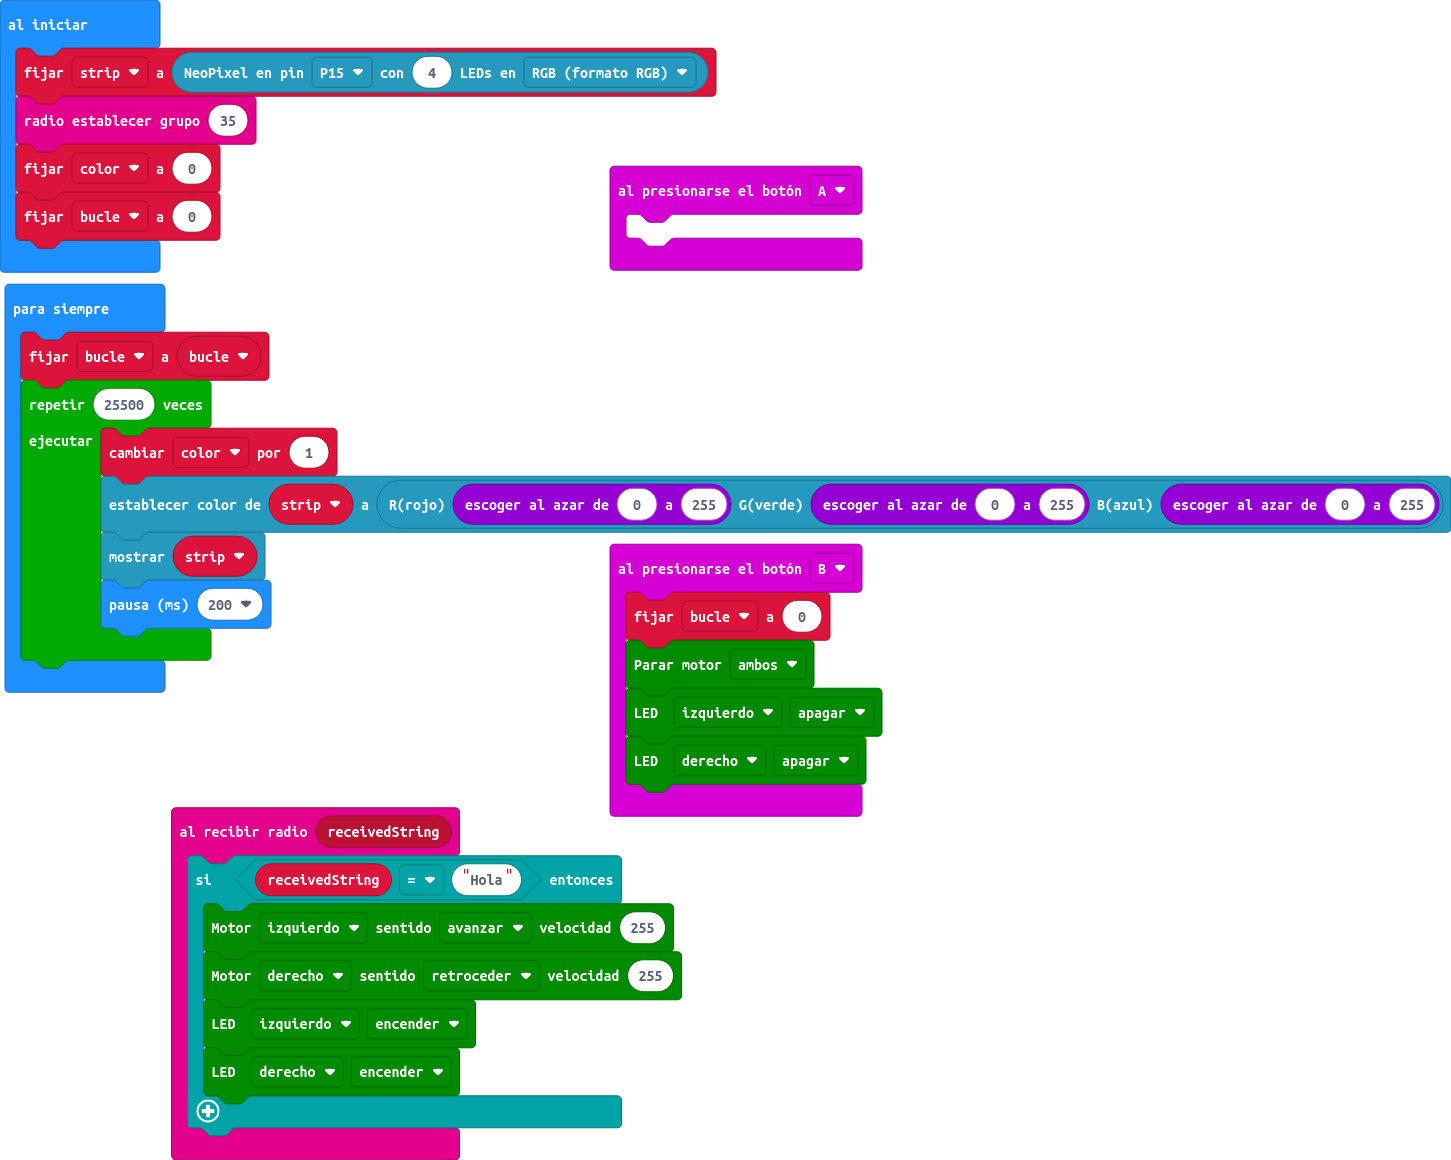
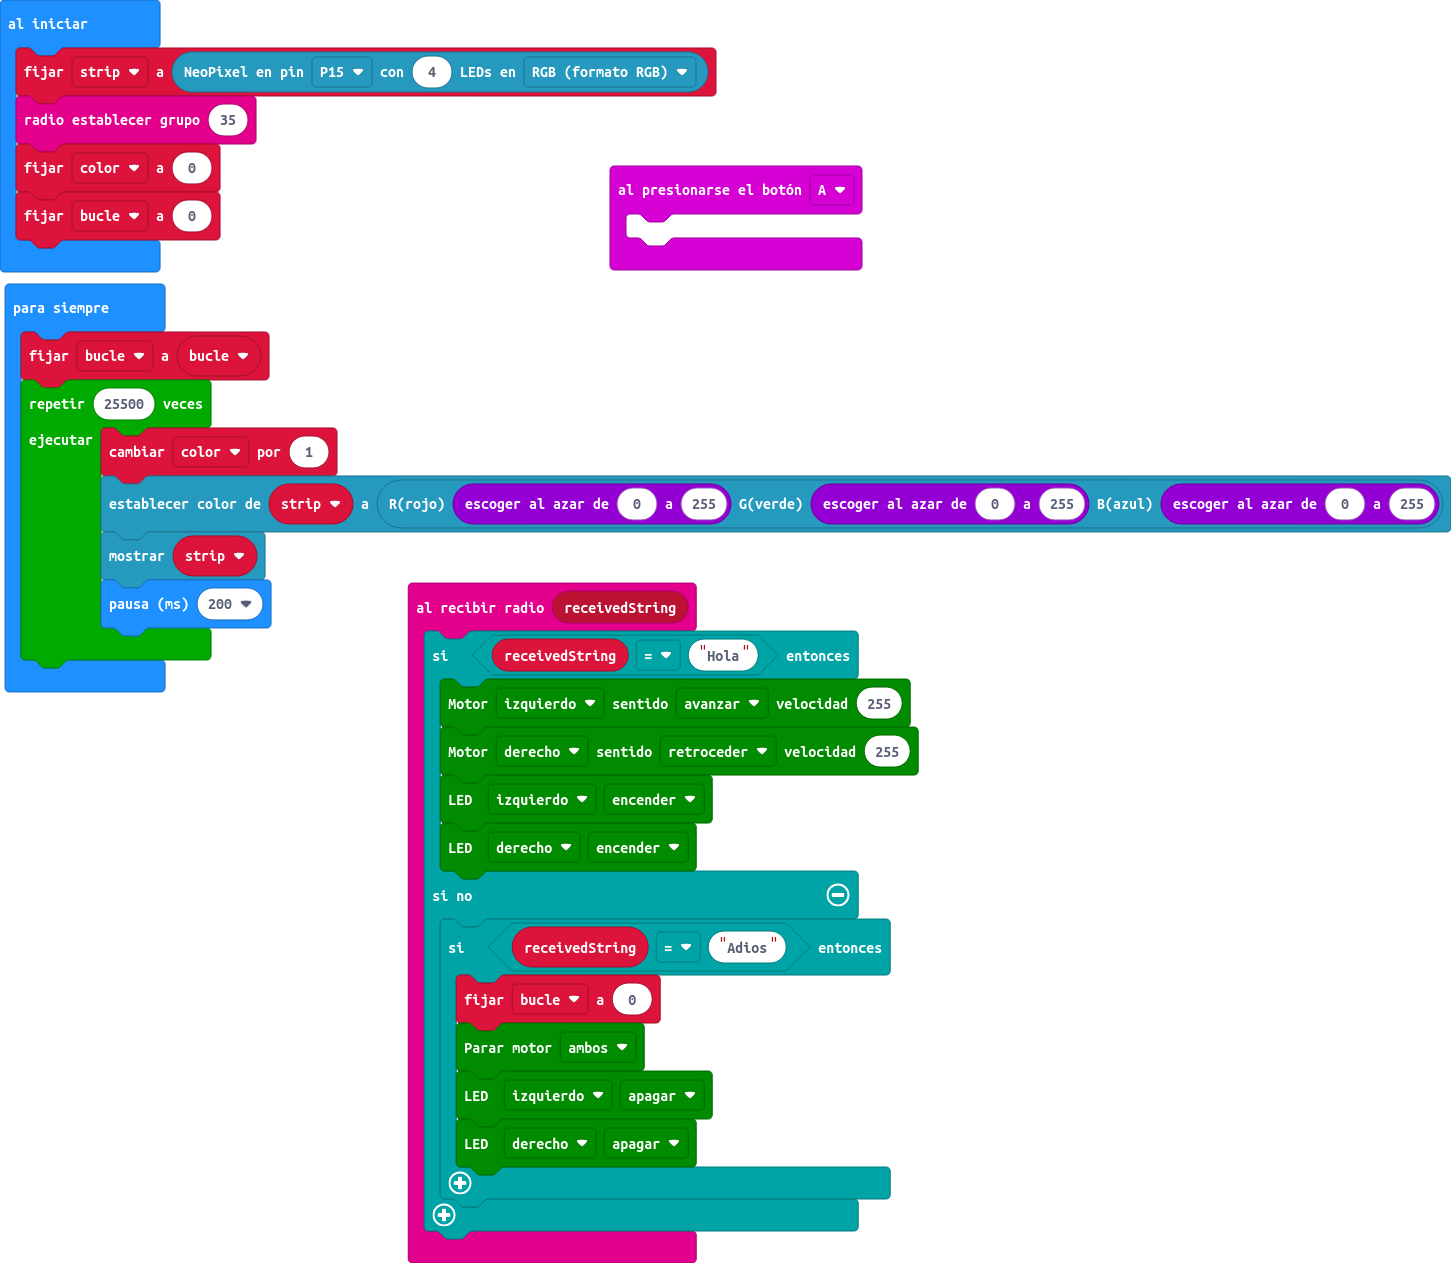
Actualizar main.blocks, main.ts

diff --git a/main.ts b/main.ts
@@ -7,13 +7,14 @@ radio.onReceivedString(function (receivedString) {
         maqueen.motorRun(maqueen.Motors.M2, maqueen.Dir.CCW, 255)
         maqueen.writeLED(maqueen.LED.LEDLeft, maqueen.LEDswitch.turnOn)
         maqueen.writeLED(maqueen.LED.LEDRight, maqueen.LEDswitch.turnOn)
+    } else {
+        if (receivedString == "Adios") {
+            bucle = 0
+            maqueen.motorStop(maqueen.Motors.All)
+            maqueen.writeLED(maqueen.LED.LEDLeft, maqueen.LEDswitch.turnOff)
+            maqueen.writeLED(maqueen.LED.LEDRight, maqueen.LEDswitch.turnOff)
+        }
     }
-})
-input.onButtonPressed(Button.B, function () {
-    bucle = 0
-    maqueen.motorStop(maqueen.Motors.All)
-    maqueen.writeLED(maqueen.LED.LEDLeft, maqueen.LEDswitch.turnOff)
-    maqueen.writeLED(maqueen.LED.LEDRight, maqueen.LEDswitch.turnOff)
 })
 let bucle = 0
 let strip = neopixel.create(DigitalPin.P15, 4, NeoPixelMode.RGB)
